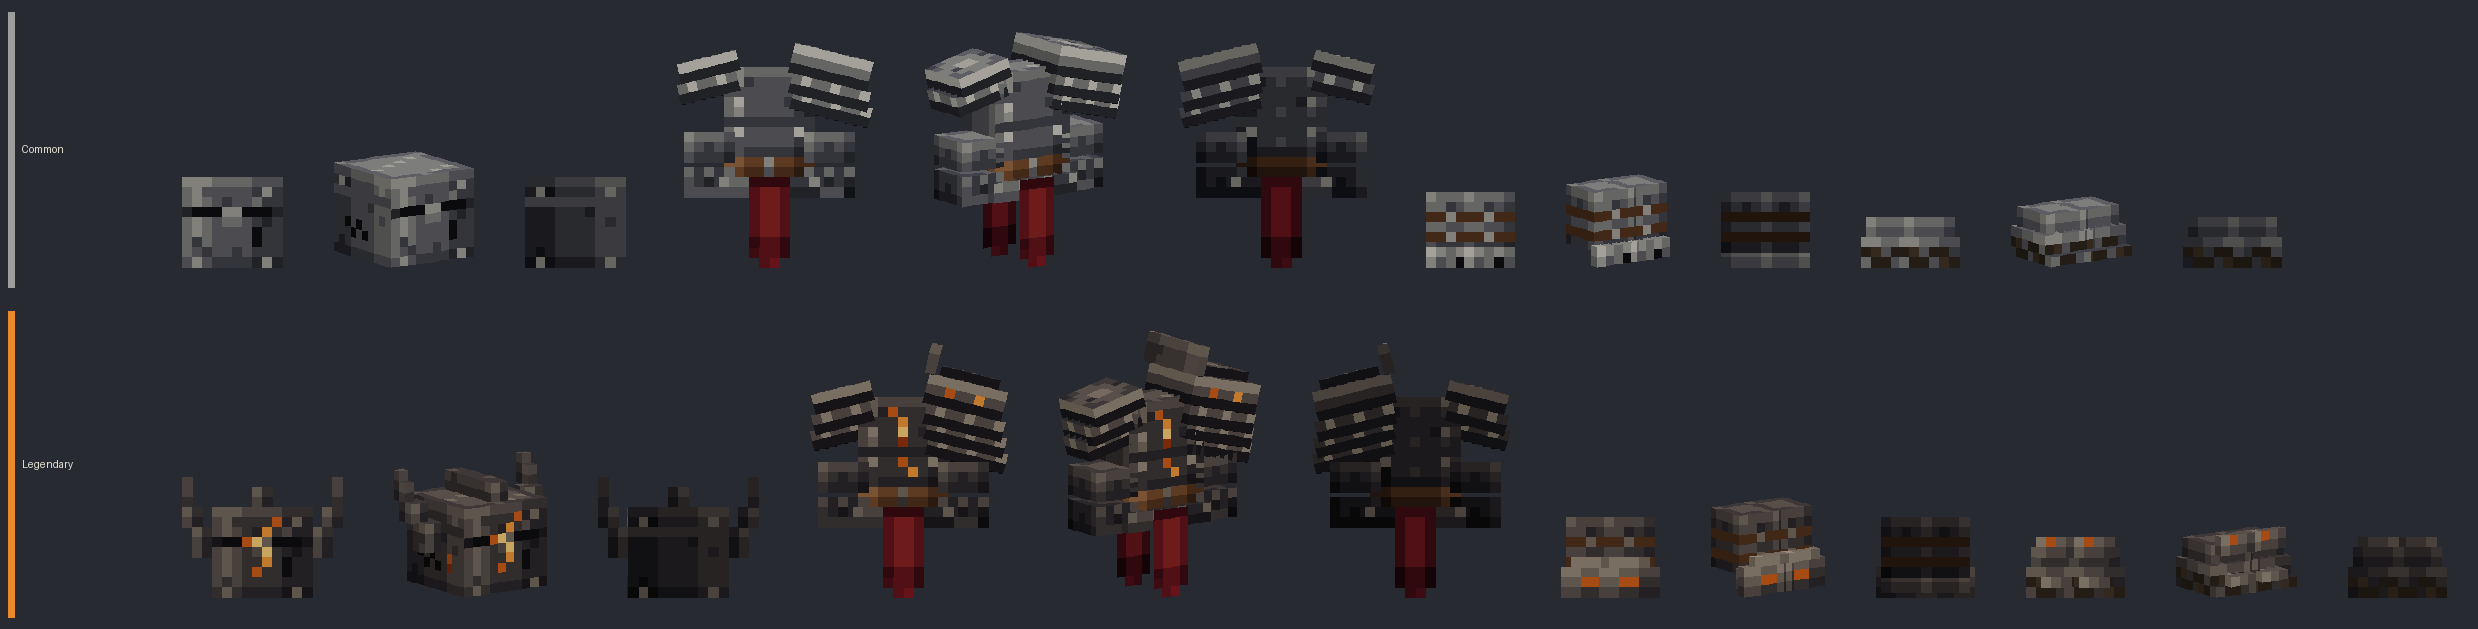
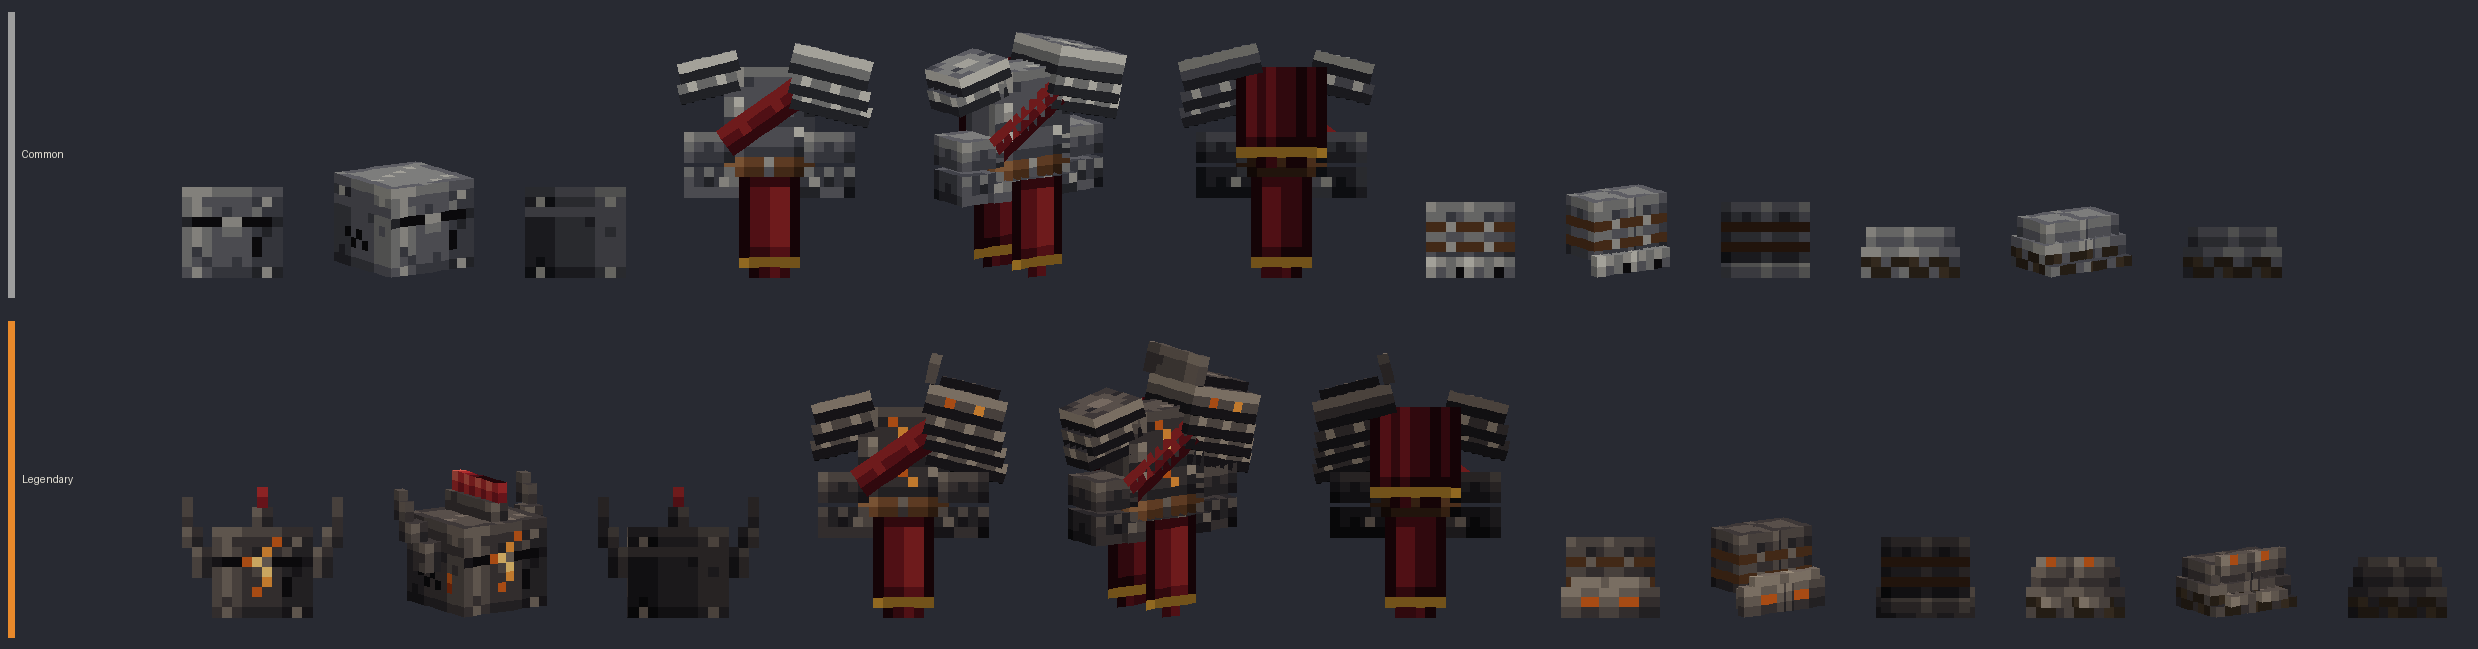
Make the side colour read on Last Watch, and add the two weapons Kort asked for
Kort said crimson and teal looked too alike. Last Watch now carries a 6-wide
tabard front and back, a mantle over the shoulders behind, a sash from the great
pauldron to the right hip, and a horsehair plume on the Legendary crest. All of
these take the side's colour, with a dark edge and a gold hem. The C/L contact
sheets are re-rendered.

Q-art-1: adds sunwell_crook (staff) and long_colours (banner) to ids.json, marked
pending until sheets/design.json gains their rows.

diff --git a/art/hand/gear/sets/last_watch.py b/art/hand/gear/sets/last_watch.py
@@ -150,6 +150,8 @@ def helm_bones():
             ox = x if c > 0 else -x - w
             boxes.append(box((ox, y, z), (w, h, d), lambda r: iron(r, base=3, seam=False, spec=False)))
         B.append(Bone(f"helm_horn_{side}", "head", tag="helm", stages=[LEGEND], boxes=boxes))
+    B.append(Bone("helm_plume", "head", tag="helm", team=True, stages=[LEGEND], boxes=[   # horsehair in the side's colour along the crest
+        Box((-0.5, -13, -4.5), (1, 2, 8), ("plume", "top"), sheet="cloth")]))
     return B
 
 # ---- Wallbreaker Cuirass: a slab breastplate in riveted bands, one huge pauldron on the left, a tabard strip ----
@@ -240,9 +242,15 @@ def chest_bones():
             lambda r: ember_of(r, CUIRASS_L)),
         box((-4.5, -3.5, -2.5), (9, 2, 5), lambda r: strap(r)),
         box((-5, -1.5, -3), (10, 2, 6), fauld)])]
+    # the side's colour, readable at a glance from any angle: a broad tabard front and back, and a short mantle over
+    # the shoulders behind (back gear, not a standard) that ends at the belt so the tabard shows below it
     B.append(Bone("tabard", "body", tag="chest", team=True, boxes=[
-        Box((-2, -1.5, -3.25), (4, 9, 0), ("tabard", "front"), sheet="cloth"),
-        Box((-2, -1.5, 3.25), (4, 9, 0), ("tabard", "back"), sheet="cloth")]))
+        Box((-3, -1.5, -3.25), (6, 10, 0), ("tabard", "front"), sheet="cloth"),
+        Box((-3, -1.5, 3.25), (6, 10, 0), ("tabard", "back"), sheet="cloth"),
+        Box((-4.5, -12.5, 3.75), (9, 10, 0), ("mantle", "back"), sheet="cloth")]))
+    # a sash slung from the great pauldron across the breastplate to the right hip, so the front reads as well
+    B.append(Bone("sash", "body", (0, -8, 0), rot=(0, 0, -35), tag="chest", team=True, boxes=[
+        Box((-5.5, -1.5, -2.75), (11, 3, 0), ("sash", "front"), sheet="cloth")]))
     # the great pauldron on the wearer's left: a broad dome over two lames, rolled outward from the shoulder
     B.append(Bone("pauldron_left", "left_arm", (1, -2, 0), rot=(0, 0, 14), tag="chest", boxes=[
         box((-4, -2, -4), (8, 3, 8), lambda r: stamped(pauldron(r, "dome"), r, PAULDRON_L if r == LEGEND else {}),
@@ -267,18 +275,26 @@ def chest_bones():
     return B
 
 def tabard(spec, side):
-    _, which = spec
-    T = TEAM[side][0]
+    part, which = spec
+    T, trim = TEAM[side][0], TEAM[side][1][1]
     def paint(face, w, h):
         g = blank(w, h)
         for y in range(h):
             for x in range(w):
-                v = 2 + (1 if x in (1, 2) else 0) - (1 if y >= h - 3 else 0)
+                if part == "plume":   # horsehair: dark-rooted strands, the crown catching light
+                    g[y][x] = clamp(T, 3 - y + (1 if face in ("right", "top") else 0) - (x % 2 if face in ("right", "left") else 0)); continue
+                v = 2 + (1 if 0 < x < w - 1 and x < w // 2 else 0) - (1 if y >= h - 3 else 0)
                 if which == "back": v -= 1
-                if y == 0: v = 1   # the fold under the belt
+                if part == "mantle" and x in (2, w - 3): v -= 1                          # two heavy folds
+                if part == "tabard" and y == 0: v = 1                                      # the fold under the belt
                 g[y][x] = clamp(T, v)
-        # a torn, uneven hem
-        cut(g, [(0, h - 1), (3, h - 1), (3, h - 2), (1, h - 1)] if which == "front" else [(0, h - 1), (2, h - 1), (3, h - 1)])
+                if part == "sash": g[y][x] = clamp(T, 3 - y + (1 if x % 4 == 0 and y == 1 else 0))   # lit top edge, a stitched seam
+                elif x in (0, w - 1) and part != "plume": g[y][x] = T[0]   # a dark selvedge
+                if y == h - 2 and part in ("tabard", "mantle"): g[y][x] = trim   # the gold-thread hem
+        if part == "tabard":   # a torn, uneven hem
+            cut(g, [(0, h - 1), (4, h - 1), (5, h - 1), (5, h - 2), (1, h - 1)] if which == "front" else [(0, h - 1), (3, h - 1), (5, h - 1)])
+        elif part == "mantle":
+            cut(g, [(0, h - 1), (1, h - 1), (4, h - 1), (7, h - 1), (8, h - 1), (8, h - 2)])
         return g
     return paint
 
@@ -338,7 +354,7 @@ def boots_bones():
     return B
 
 def pieces():
-    return [GearPiece("bruiser_helm", "helm", helm_bones, glow=glow_cb),
-            GearPiece("bruiser_chest", "chest", chest_bones, cloth_painter=tabard, skin=(128, 64), cloth=(32, 16), glow=glow_cb),
+    return [GearPiece("bruiser_helm", "helm", helm_bones, cloth_painter=tabard, cloth=(32, 16), glow=glow_cb),
+            GearPiece("bruiser_chest", "chest", chest_bones, cloth_painter=tabard, skin=(128, 64), cloth=(64, 32), glow=glow_cb),
             GearPiece("bruiser_legs", "legs", legs_bones, glow=glow_cb),
             GearPiece("bruiser_boots", "boots", boots_bones, glow=glow_cb)]

diff --git a/docs/superpowers/plans/2026-11-03-gear-art.md b/docs/superpowers/plans/2026-11-03-gear-art.md
@@ -54,7 +54,7 @@ Output paths under `src/main/resources/assets/gravesandglory/`: `models/gear/<it
 - **D1 Base body.** Gear is drawn over the player's own skin; uncovered slots show it. The mannequin stands in for it on contact sheets.
 - **D2 Rarity count per piece.** Each piece has five skin sheets, not a base plus overlays, so each rarity can change shape (Legendary adds bones: `stages=[5]` on `Bone`).
 - **D3 Icons.** Grid icons are 32 x 32 sprites drawn 1:1 on the 960 x 540 canvas inside the 44 px slots. They start from an offline 3/4 render of the piece at 2 px per texel, then are hand-cleaned per rarity; relic icons are painted from ASCII grids.
-- **D4 Weapon list.** The art follows the sheet's 10 weapon items, not the catalogue's 11: the sheet adds Notched Falchion (`falchion`) and lacks Sunwell Crook and The Long Colours. Queued as a question for Kort (Q-art-1); the extra two are built only if he wants them in the sheet.
+- **D4 Weapon list.** Kort ruled on Q-art-1 (2026-11-03): 12 weapons, made of the sheet's 10 (Notched Falchion `falchion` is kept) plus Sunwell Crook (`sunwell_crook`, staff, one hand) and The Long Colours (`long_colours`, banner, one hand). The two new ids are in `ids.json` marked `pending` until `sheets/design.json` gains their rows.
 - **D5 Families.** The spec's 5 weapon families are sword (with the shield), greatweapon (greatsword, great-axe), bow and crossbow (with the quiver), staff, and banner.
 
 ## Tasks
